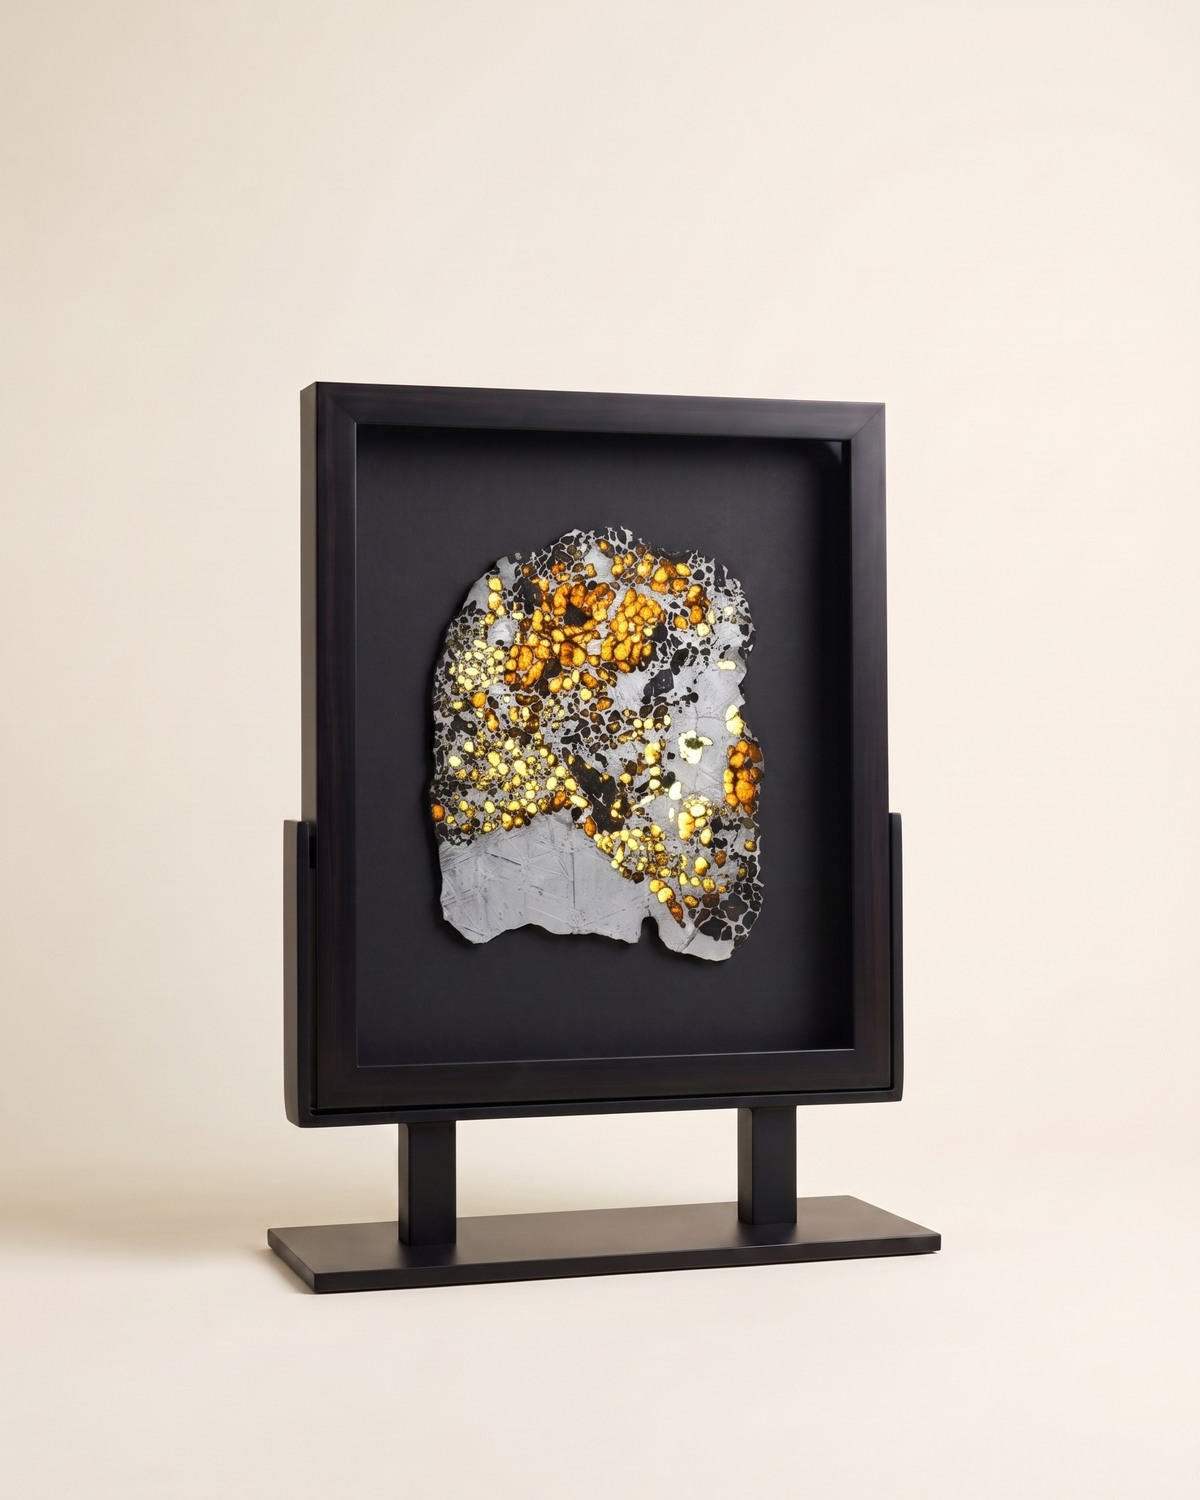
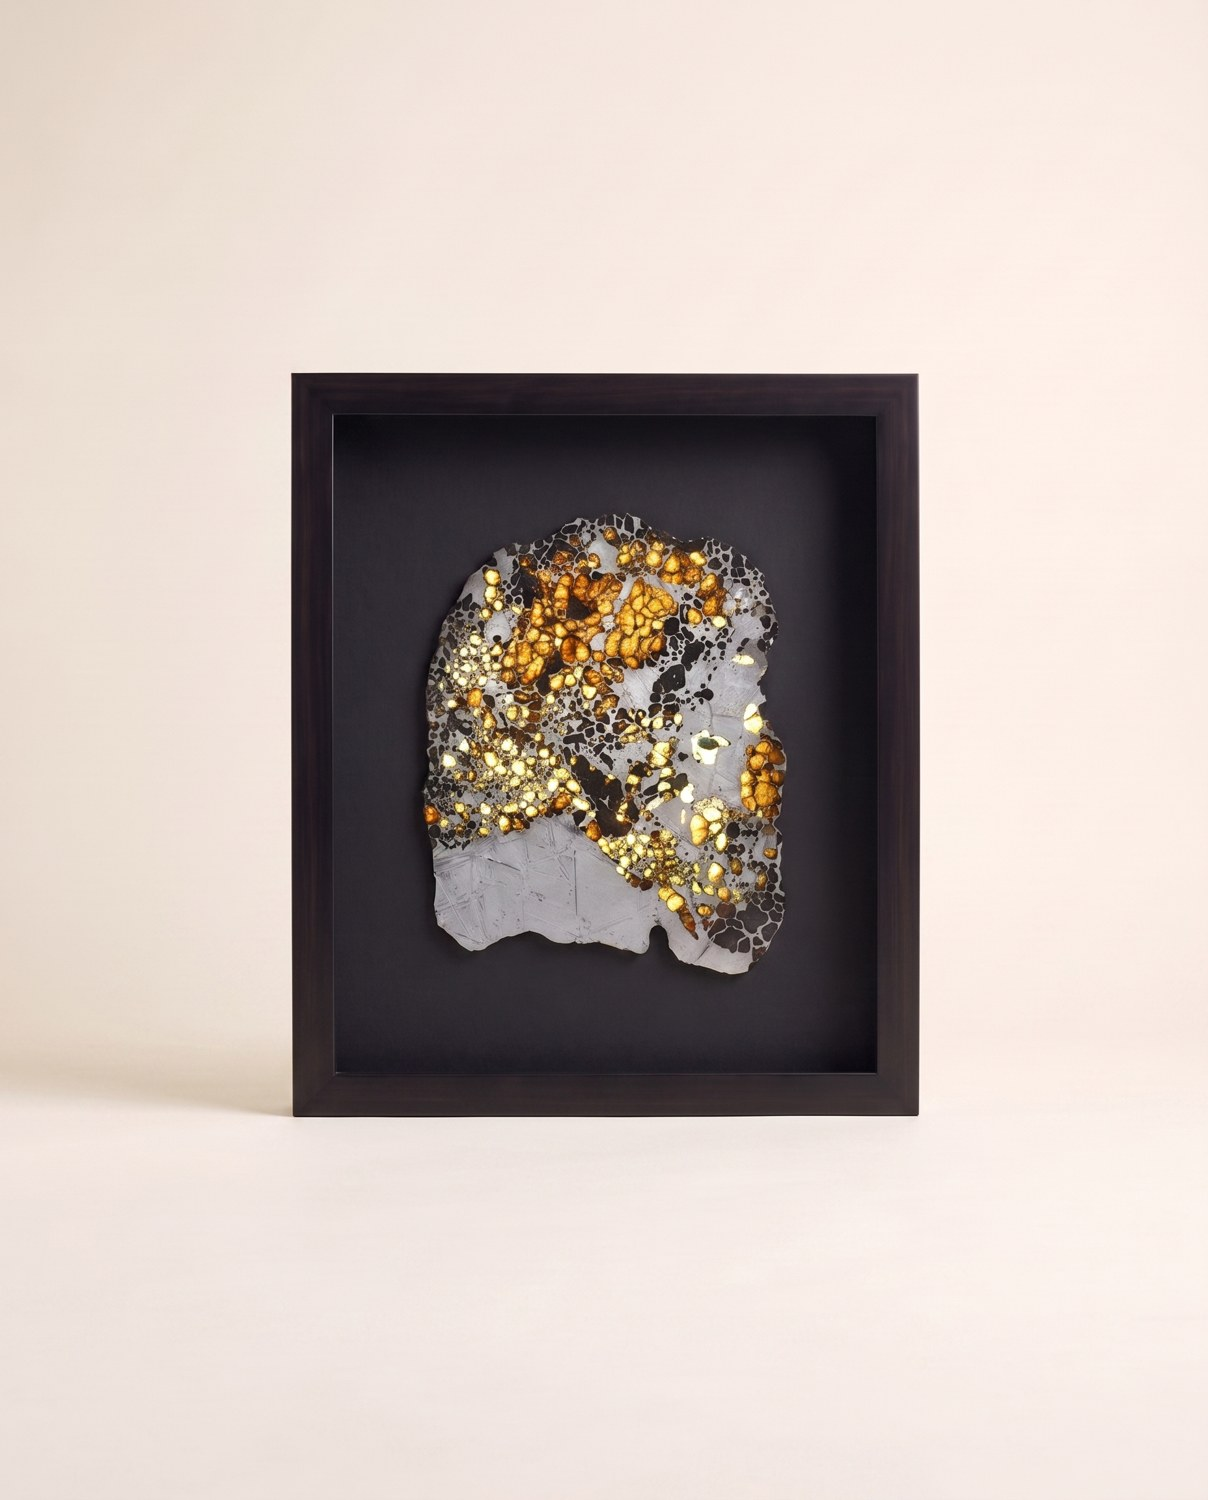
Сеймчан в раме — без подставки
Рама глубокая и вешается на стену, стальная стойка под ней была лишней:
канон пересобран рамой без основания и стоек, интерьер — рама на стене
над консолью, свет вскользь. Оформление в паспорте уточнено.

Changed region(s): [[0.0, 0.2453, 0.8017, 0.8893], [0.3392, 0.3373, 0.6475, 0.6747]]

diff --git a/shared/catalog.js b/shared/catalog.js
@@ -987,7 +987,7 @@ window.RELICTUM_CATALOG = [
     "age": "≈ 4,56 млрд лет",
     "location": "Магаданская область, Россия",
     "size": "По запросу",
-    "mount": "Чернёная сталь",
+    "mount": "Глубокая рама с тёмным паспарту, к стене",
     "description": "Полированный спил палласита Сеймчан: металлическая сетка никелистого железа, в которой сидят зёрна оливина. Вещество родилось на границе ядра и мантии разрушенной протопланеты. Спил оформлен в глубокую раму с тёмным паспарту — готов к стене.",
     "href": "../16_product_promos/exhibit.html?id=0287-seymchan-framed",
     "qty": "Два экземпляра"

diff --git a/16_product_promos/promo-data.js b/16_product_promos/promo-data.js
@@ -2594,7 +2594,10 @@ window.RELICTUM_PROMO = {
       "img": "int_ph_met_seymchan_frame.jpg",
       "text": "Спил в глубокой раме готов к стене: вешается как графика, а читается как окно в космос."
     },
-    "gallery": []
+    "gallery": [
+   "int_ph_met_seymchan_frame.jpg",
+   "ph_met_seymchan_frame.jpg"
+  ]
   },
 
   "R–0288": {
